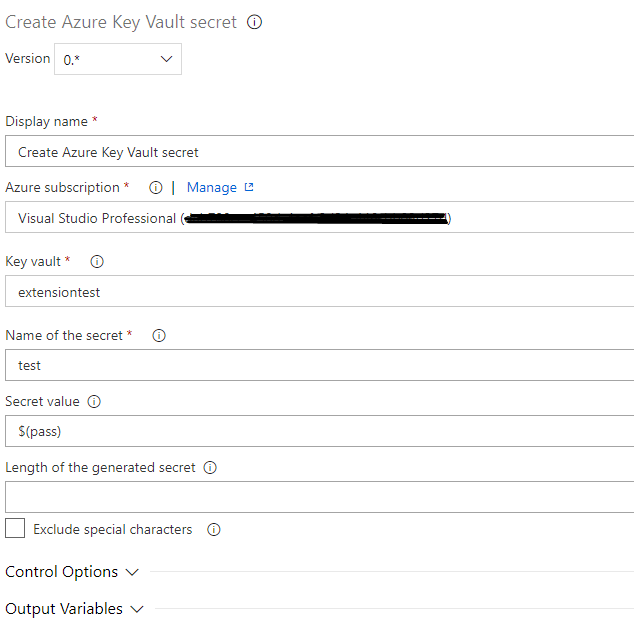
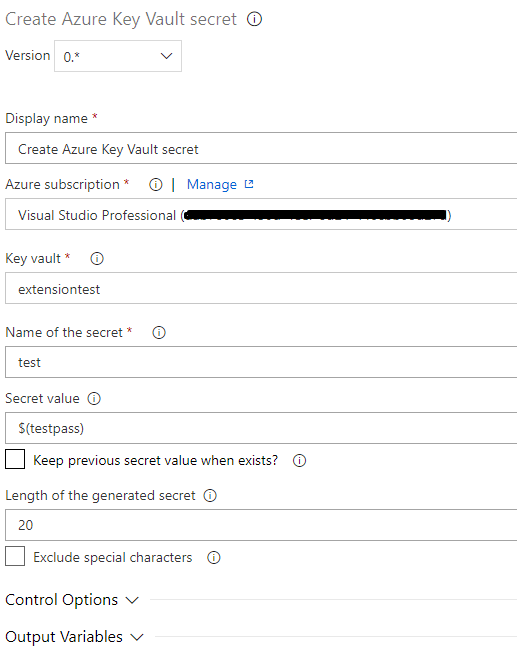
v 1.0.0

Changed region(s): [[0.0, 0.151, 1.0, 0.9968], [0.0, 0.0, 0.4952, 0.1208], [0.4023, 0.8156, 0.4333, 0.8458]]

diff --git a/createSecret/operations/KeyVault.js b/createSecret/operations/KeyVault.js
@@ -1,4 +1,12 @@
 "use strict";
+var __awaiter = (this && this.__awaiter) || function (thisArg, _arguments, P, generator) {
+    return new (P || (P = Promise))(function (resolve, reject) {
+        function fulfilled(value) { try { step(generator.next(value)); } catch (e) { reject(e); } }
+        function rejected(value) { try { step(generator["throw"](value)); } catch (e) { reject(e); } }
+        function step(result) { result.done ? resolve(result.value) : new P(function (resolve) { resolve(result.value); }).then(fulfilled, rejected); }
+        step((generator = generator.apply(thisArg, _arguments || [])).next());
+    });
+};
 Object.defineProperty(exports, "__esModule", { value: true });
 const msRestAzure = require("ms-rest-azure");
 const azureKV = require("azure-keyvault");
@@ -8,26 +16,39 @@ class KeyVault {
     constructor(taskParameters) {
         this.taskParameters = taskParameters;
     }
-    createSecret(creds, secretName, secretValue, secretLength, excludeSpecialChars) {
-        try {
-            let pattern = excludeSpecialChars ? "Aa0" : "*";
-            if (!secretValue) {
-                secretValue = randomize(pattern, secretLength);
-            }
-            msRestAzure.loginWithServicePrincipalSecret(this.taskParameters.servicePrincipalId, this.taskParameters.servicePrincipalKey, this.taskParameters.tenantId, (err, credentials, subs) => {
+    createSecret(creds, secretName, secretValue, secretLength, excludeSpecialChars, keepSecret) {
+        return __awaiter(this, void 0, void 0, function* () {
+            try {
                 this.keyVaultClient = new azureKV.KeyVaultClient(creds);
-                this.keyVaultClient.setSecret(this.taskParameters.keyVaultUrl, secretName, secretValue)
-                    .then((kvSecretBundle) => {
-                    console.log("Secret saved!");
-                })
-                    .catch((e) => {
-                    tl.setResult(tl.TaskResult.Failed, "Failed to save key to the Key Vault. => " + e);
+                if (keepSecret) {
+                    let secrets = yield this.keyVaultClient.getSecrets(this.taskParameters.keyVaultUrl);
+                    if (secrets) {
+                        for (let index = 0; index < secrets.length; index++) {
+                            if (secrets[index].id == "https://" + this.taskParameters.keyVaultName + ".vault.azure.net/secrets/" + secretName) {
+                                console.log("Existing secret found. Stopping...");
+                                return;
+                            }
+                        }
+                    }
+                }
+                let pattern = excludeSpecialChars ? "Aa0" : "*";
+                if (!secretValue) {
+                    secretValue = randomize(pattern, secretLength);
+                }
+                msRestAzure.loginWithServicePrincipalSecret(this.taskParameters.servicePrincipalId, this.taskParameters.servicePrincipalKey, this.taskParameters.tenantId, (err, credentials, subs) => {
+                    this.keyVaultClient.setSecret(this.taskParameters.keyVaultUrl, secretName, secretValue)
+                        .then((kvSecretBundle) => {
+                        console.log("Secret saved!");
+                    })
+                        .catch((e) => {
+                        tl.setResult(tl.TaskResult.Failed, "Failed to save key to the Key Vault. => " + e);
+                    });
                 });
-            });
-        }
-        catch (e) {
-            tl.setResult(tl.TaskResult.Failed, "Creating secret failed. => " + e);
-        }
+            }
+            catch (e) {
+                tl.setResult(tl.TaskResult.Failed, "Creating secret failed. => " + e);
+            }
+        });
     }
 }
 exports.KeyVault = KeyVault;

diff --git a/createSecret/operations/KeyVault.ts b/createSecret/operations/KeyVault.ts
@@ -18,16 +18,28 @@ export class KeyVault {
         this.taskParameters = taskParameters;
     }
 
-    createSecret(creds:msRestAzure.ApplicationTokenCredentials,secretName:string,secretValue:string,secretLength:number,excludeSpecialChars:boolean) {
+    async createSecret(creds:msRestAzure.ApplicationTokenCredentials,secretName:string,secretValue:string,secretLength:number,excludeSpecialChars:boolean,keepSecret:boolean) {
         try{
+            this.keyVaultClient = new azureKV.KeyVaultClient(creds);
+            if(keepSecret){
+                let secrets = await this.keyVaultClient.getSecrets(this.taskParameters.keyVaultUrl);             
+                if(secrets){
+                    for (let index = 0; index < secrets.length; index++) {
+                        if(secrets[index].id == "https://"+this.taskParameters.keyVaultName+".vault.azure.net/secrets/"+secretName){
+                            console.log("Existing secret found. Stopping...");
+                            return;
+                        }                        
+                    }
+                }
+            }
+
             let pattern = excludeSpecialChars ? "Aa0" : "*";
             
             if(!secretValue){
                 secretValue = randomize(pattern,secretLength);
             }
             
-            msRestAzure.loginWithServicePrincipalSecret(this.taskParameters.servicePrincipalId, this.taskParameters.servicePrincipalKey, this.taskParameters.tenantId,(err,credentials,subs) => {
-                this.keyVaultClient = new azureKV.KeyVaultClient(creds);
+            msRestAzure.loginWithServicePrincipalSecret(this.taskParameters.servicePrincipalId, this.taskParameters.servicePrincipalKey, this.taskParameters.tenantId,(err,credentials,subs) => {       
                 this.keyVaultClient.setSecret(this.taskParameters.keyVaultUrl,secretName,secretValue)    
                 .then( (kvSecretBundle) => {
                     console.log("Secret saved!");
@@ -36,10 +48,6 @@ export class KeyVault {
                     tl.setResult(tl.TaskResult.Failed,"Failed to save key to the Key Vault. => " + e);
                 });
             })
-
-
-
-
         }
         catch(e){
             tl.setResult(tl.TaskResult.Failed,"Creating secret failed. => " + e);

diff --git a/createSecret/index.js b/createSecret/index.js
@@ -17,7 +17,7 @@ function run() {
             validateInput();
             let taskParameters = new keyVaultTaskParameters.KeyVaultTaskParameters();
             let keyvault = new kv.KeyVault(taskParameters);
-            keyvault.createSecret(taskParameters.vaultCredentials, tl.getInput("SecretName"), tl.getInput("SecretValue"), parseInt(tl.getInput("SecretLength")), tl.getBoolInput("ExcludeSpecialChars"));
+            yield keyvault.createSecret(taskParameters.vaultCredentials, tl.getInput("SecretName"), tl.getInput("SecretValue"), parseInt(tl.getInput("SecretLength")), tl.getBoolInput("ExcludeSpecialChars"), tl.getBoolInput("KeepValue"));
         }
         catch (error) {
             tl.setResult(tl.TaskResult.Failed, "Error occured -> " + error);

diff --git a/createSecret/index.ts b/createSecret/index.ts
@@ -10,7 +10,7 @@ async function run() {
         let taskParameters = new keyVaultTaskParameters.KeyVaultTaskParameters();
         let keyvault = new kv.KeyVault(taskParameters);
 
-        keyvault.createSecret(taskParameters.vaultCredentials,tl.getInput("SecretName"),tl.getInput("SecretValue"),parseInt(tl.getInput("SecretLength")),tl.getBoolInput("ExcludeSpecialChars"));
+        await keyvault.createSecret(taskParameters.vaultCredentials,tl.getInput("SecretName"),tl.getInput("SecretValue"),parseInt(tl.getInput("SecretLength")),tl.getBoolInput("ExcludeSpecialChars"),tl.getBoolInput("KeepValue"));
     } 
     catch (error) {
         tl.setResult(tl.TaskResult.Failed, "Error occured -> "+error);

diff --git a/docs/overview.md b/docs/overview.md
@@ -5,11 +5,11 @@ You can also add your own secret values into the selected Key Vault.
 
 # Important
 When using custom values, do this by using the VSTS secured varibles and do not paste plain text in the input field!
+Also make sure the Service Principal has access to the Key Vault.
 
 # Prerequisites
 - Azure subscription
 - Visual Studio Team Services (VSTS)
-
 
 # Used npm packages
 - randomatic
